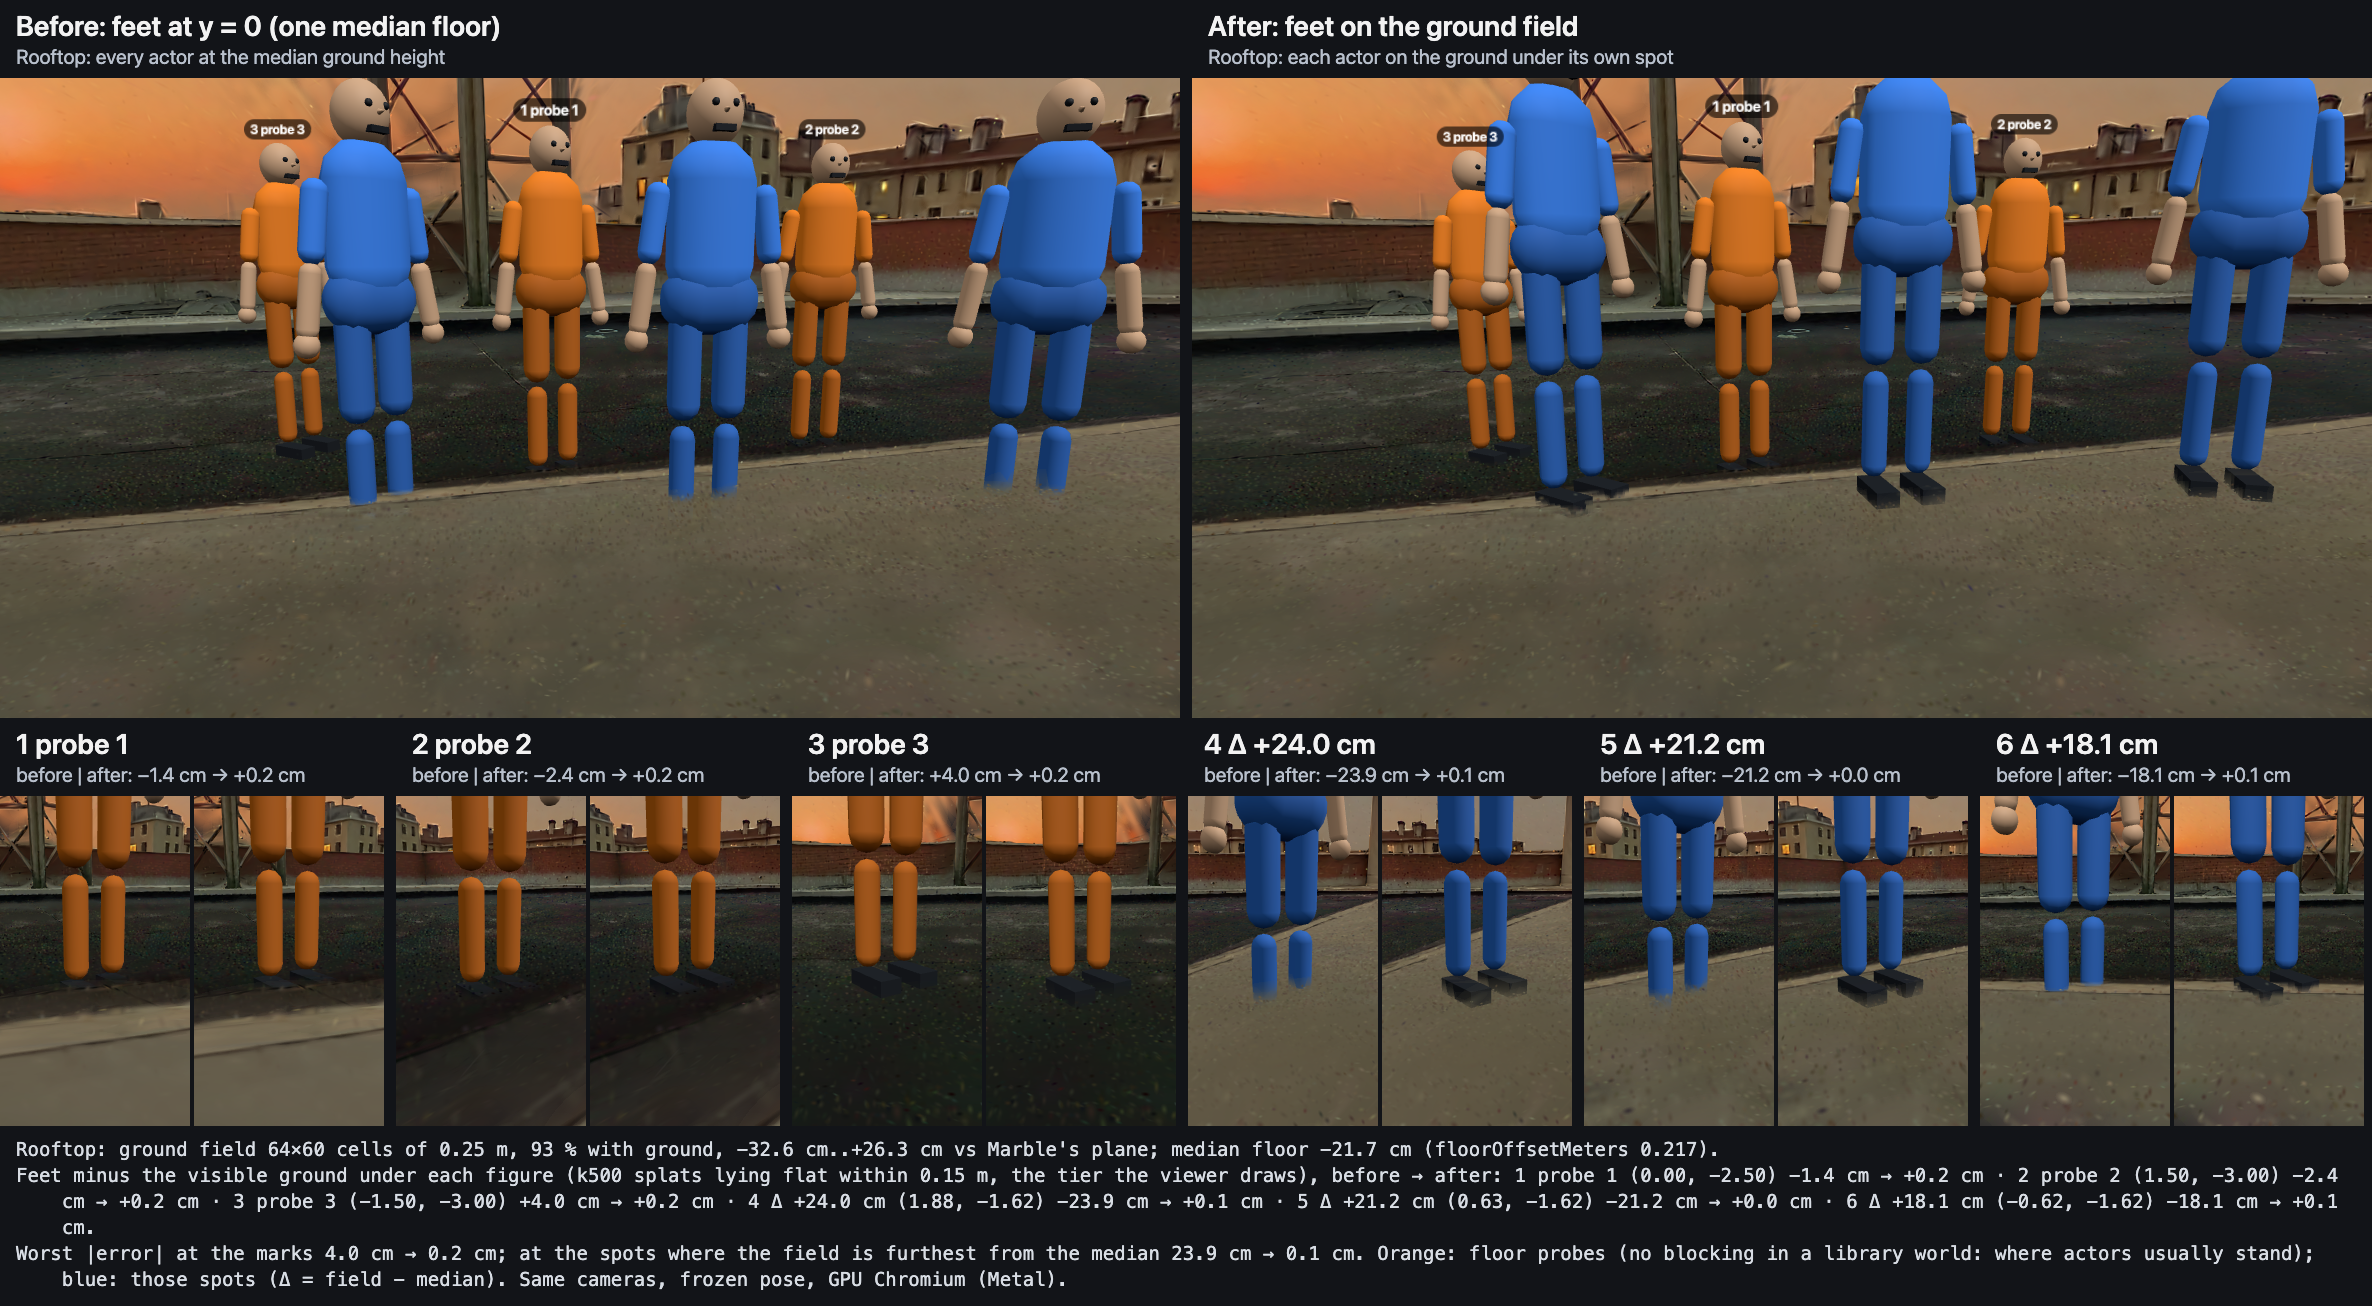
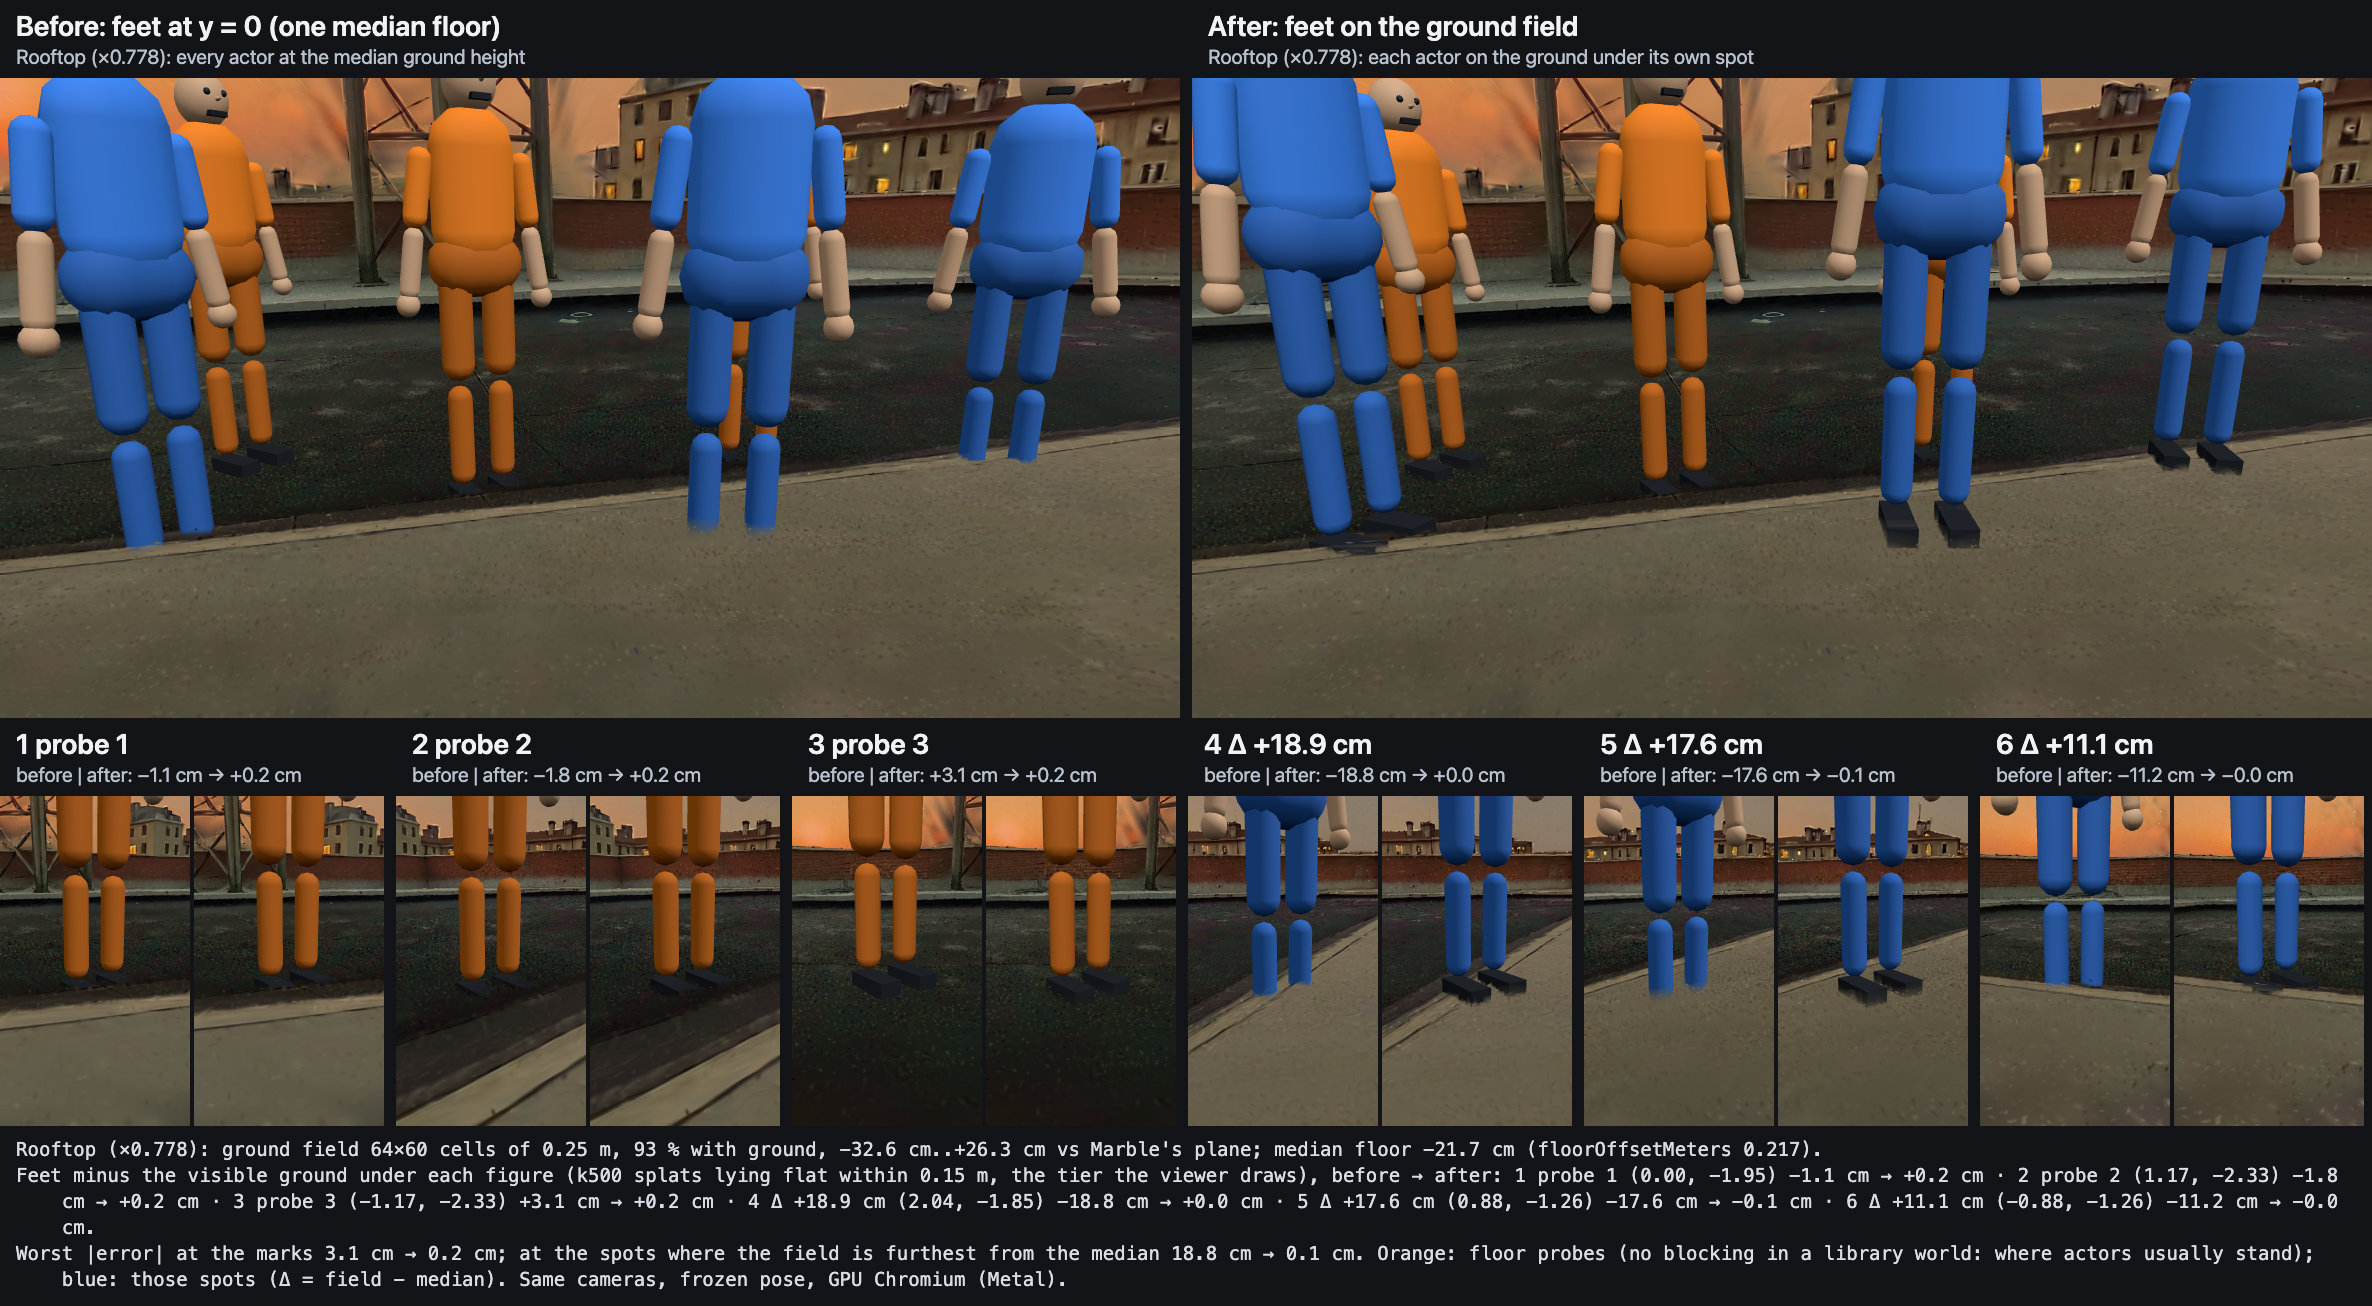
ground evidence: rooftop re-rendered at WP2's ×0.778 (feet error at the probes 3.1 → 0.2 cm, at the walkway 18.8 → 0.1 cm in scene metres); spot labels in scene metres

diff --git a/scripts/ground-evidence.ts b/scripts/ground-evidence.ts
@@ -134,7 +134,7 @@ async function main() {
     const g = median + c.d;
     const t = Math.atan2(-c.x, -c.z);
     if (clutter(c.x, c.z, g) > 10 || clutter(c.x + 0.7 * Math.sin(t), c.z + 0.7 * Math.cos(t), g) > 10) continue;
-    spots.push({ label: `Δ ${cm(c.d)}`, kind: 'spot', x: Math.round(c.x * 100) / 100, z: Math.round(c.z * 100) / 100 });
+    spots.push({ label: `Δ ${cm(c.d * f)}`, kind: 'spot', x: Math.round(c.x * 100) / 100, z: Math.round(c.z * 100) / 100 });
   }
   const figures: Figure[] = [...marks.map(([x, z], i) => ({ label: labels[i] ?? `mark ${i + 1}`, kind: 'mark' as const, x, z })), ...spots];
 

diff --git a/README.md b/README.md
@@ -505,12 +505,13 @@ world regeneration, and with `calibrate … --write`. Library copies carry `grou
 | --- | --- | --- | --- | --- | --- |
 | bus stop (`the-last-bus`) | 63×60 | 74 % | -0.60…+0.21 m | 2.9 → 0.4 cm | 6.3 → 0.5 cm |
 | city-street-night | 64×60 | 90 % | -0.34…+0.23 m | 9.3 → 0.3 cm | 13.6 → 0.2 cm |
-| rooftop-dusk | 64×60 | 93 % | -0.33…+0.26 m | 4.0 → 0.2 cm | 23.9 → 0.1 cm |
+| rooftop-dusk (at its ×0.778 scale) | 64×60 | 93 % | -0.33…+0.26 m | 3.1 → 0.2 cm | 18.8 → 0.1 cm |
 | kitchen-morning | 24×21 (the room) | 50 % | -0.07…+0.10 m | 3.6 → 1.2 cm | — |
 
 The feet error is the gap between the feet and the k500 splats lying flat within 0.15 m of them,
-an independent look at the ground the viewer draws. For the library worlds the marks are the floor
-probes. `pnpm tsx scripts/ground-evidence.ts <worldDir> --name <n>` renders the pictures below
+an independent look at the ground the viewer draws. It is measured in scene metres; the ground
+heights are at Marble's scale, so the rooftop's ×0.778 turns its 24 cm walkway step into 19 cm.
+For the library worlds the marks are the floor probes. `pnpm tsx scripts/ground-evidence.ts <worldDir> --name <n>` renders the pictures below
 (1.70 m mannequins in GPU Chromium; feet close-ups, before | after).
 
 ![Bus stop: feet at the median floor vs on the ground field](docs/images/ground-bus-stop-before-after.png)
